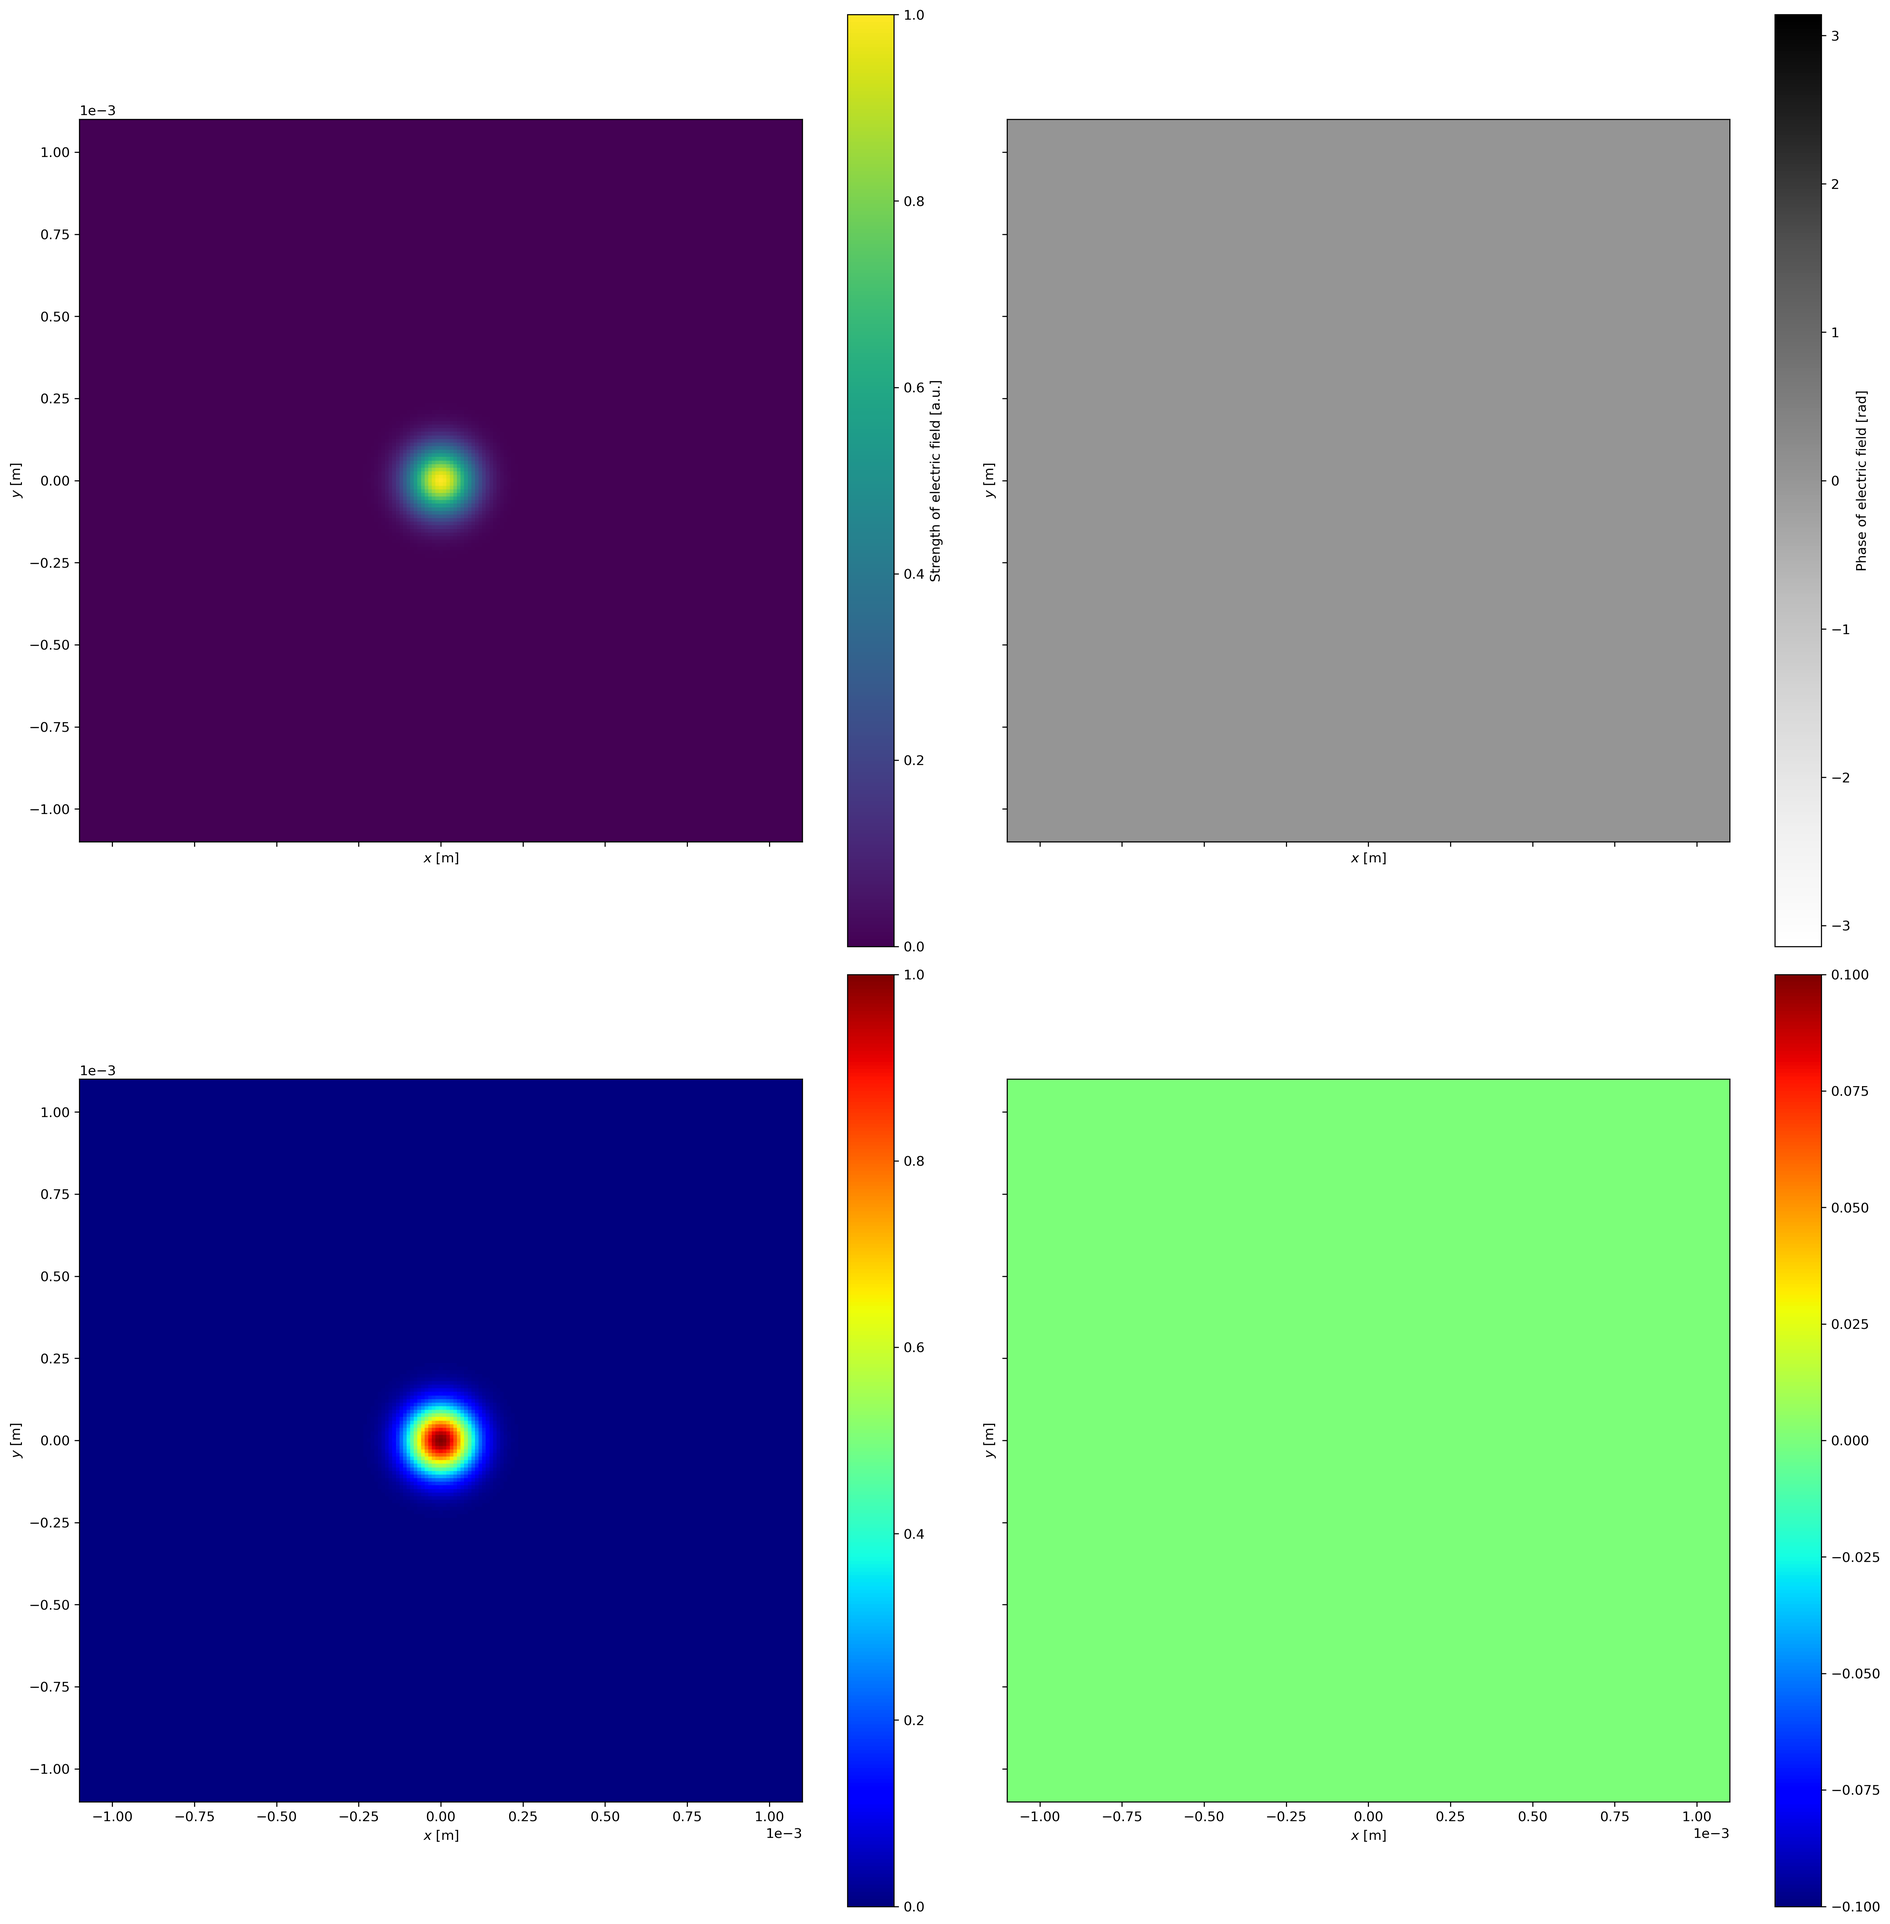
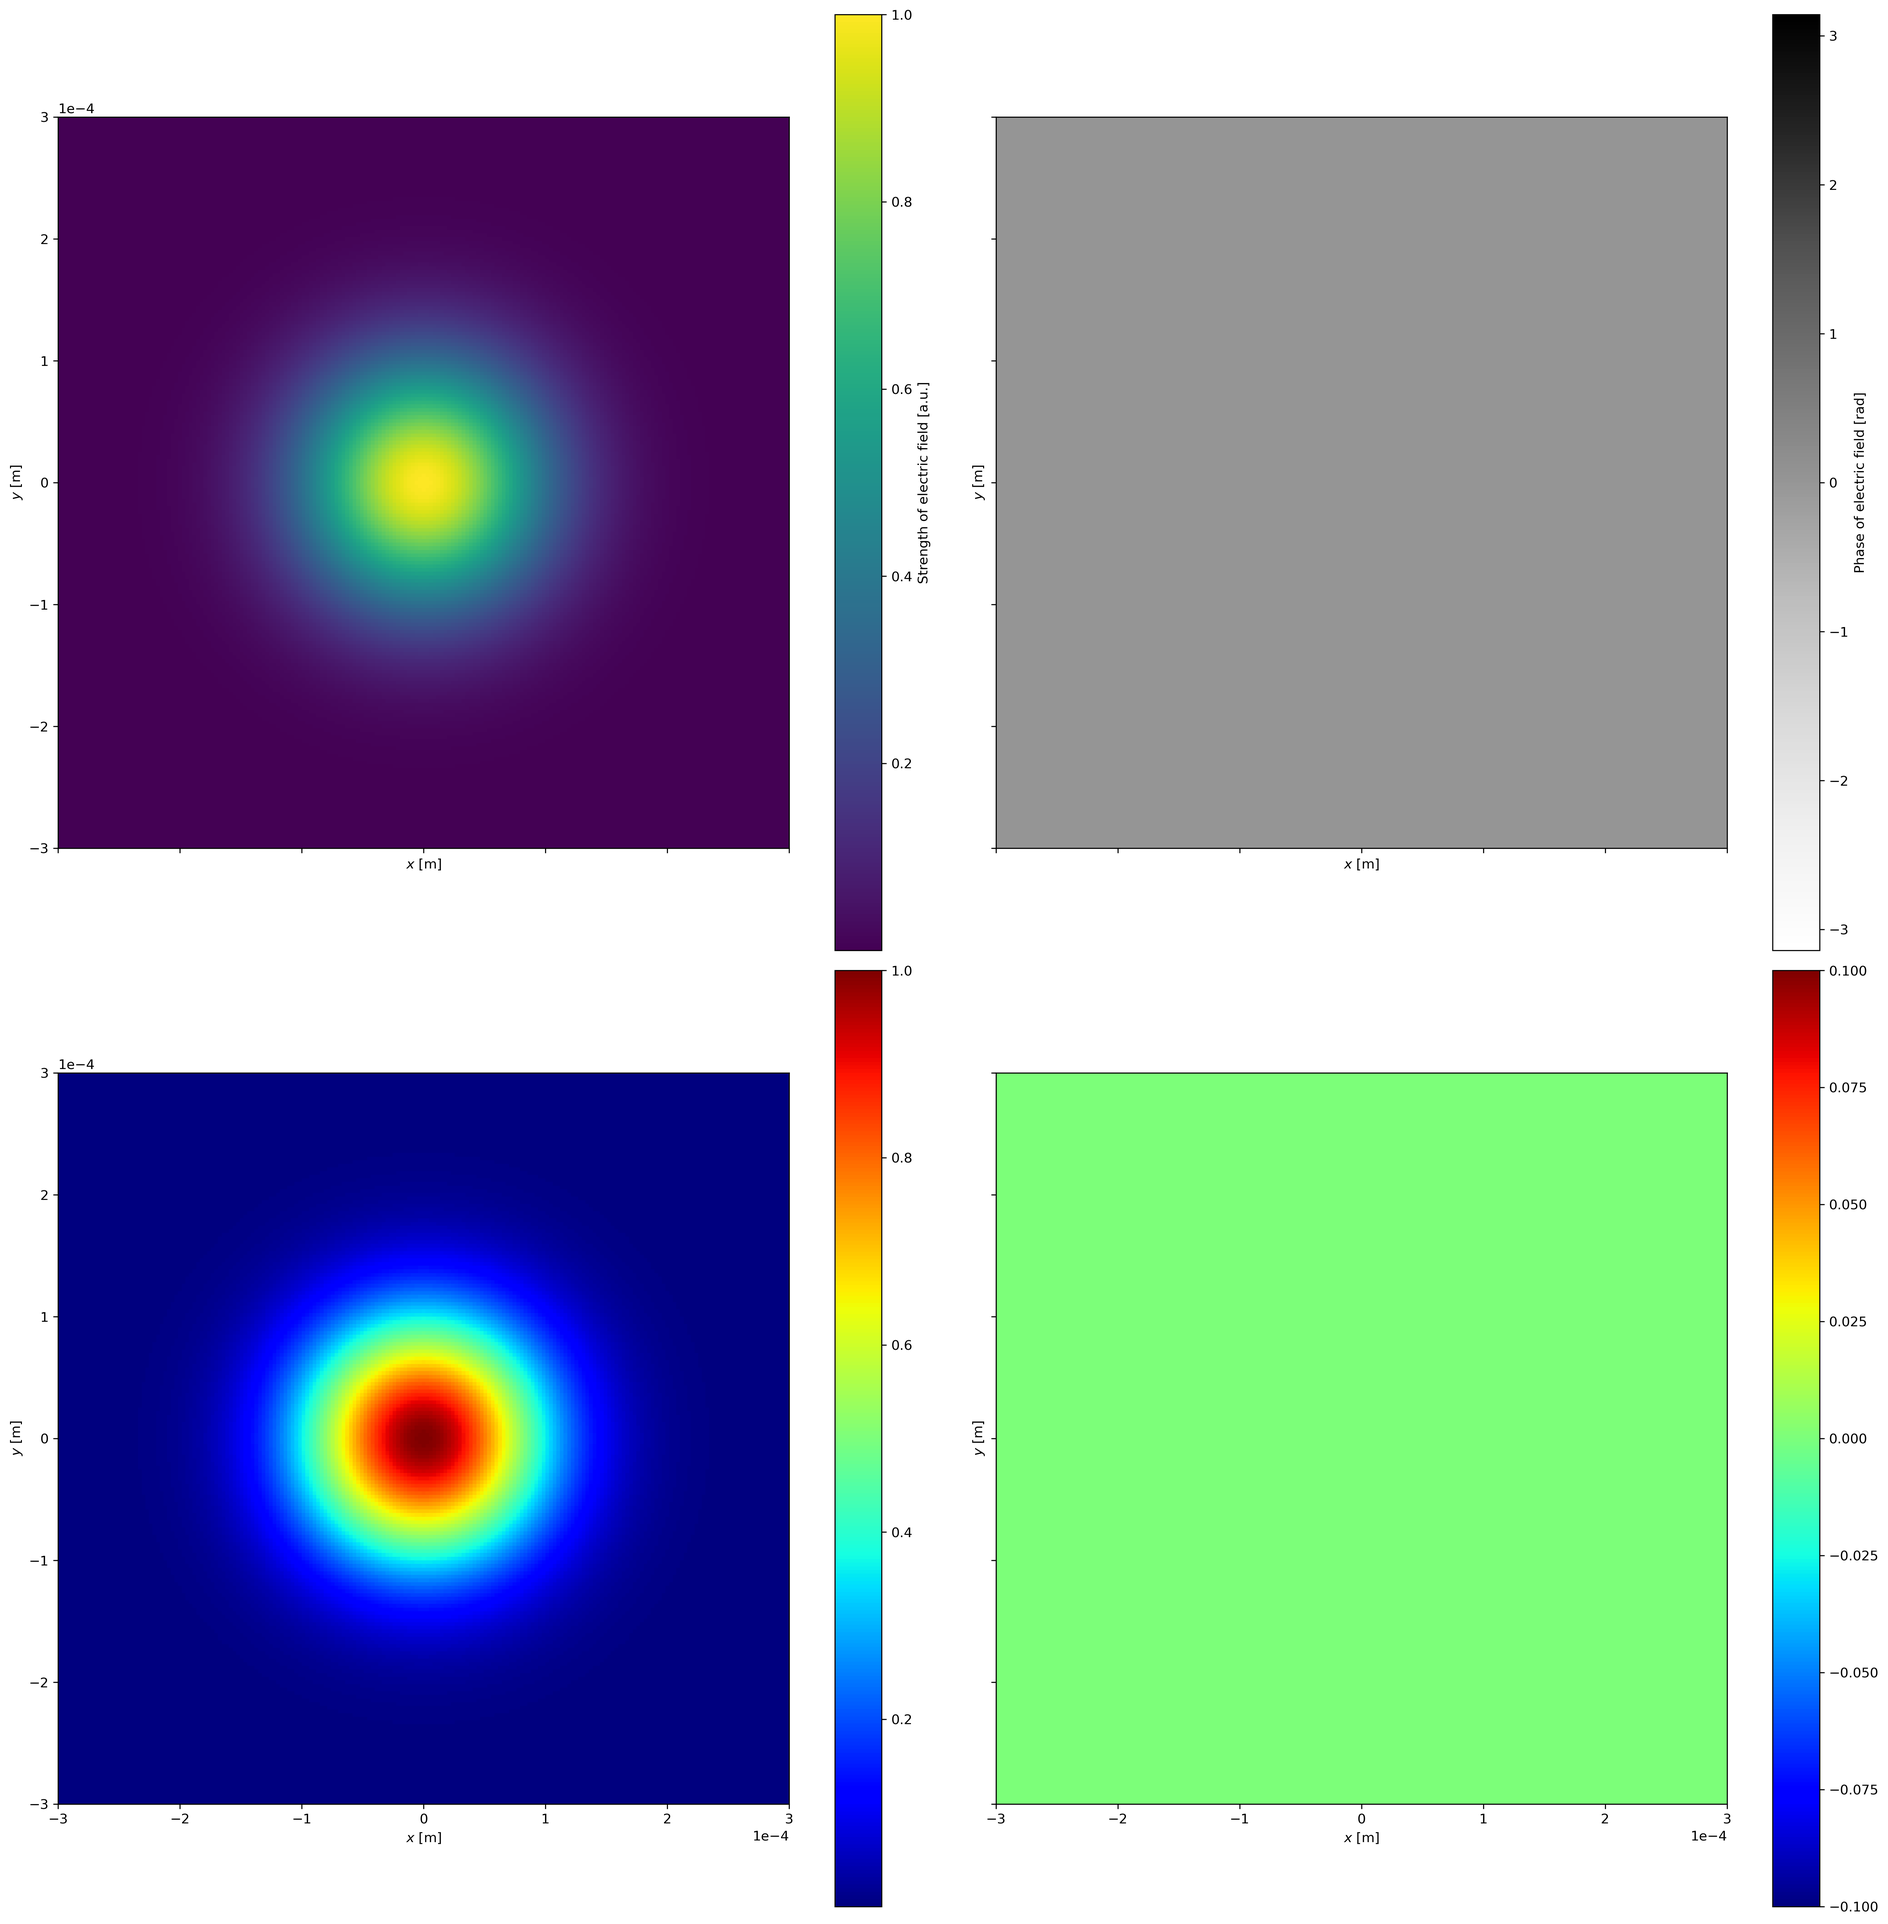
Added some results of LG beams at the waist.

diff --git a/laguerre-gauss_Gouy.py b/laguerre-gauss_Gouy.py
@@ -24,15 +24,15 @@ if __name__ == "__main__":
     wavelength = 640e-9
     wavenumber = 2.0 * np.pi / wavelength
     waist_radius = 100e-6
-    radial_order = 0
-    azimuthal_order = 0
+    radial_order = 2
+    azimuthal_order = 2
     
     rayleigh = sources.laguerre_gauss_paraxial_parameters(wavelength, waist_radius, radial_order, azimuthal_order, 0.0)[1]
     
     print('Rayleigh length of beam:', rayleigh*1e3, 'mm')
     
     # sampling parameters
-    frame = 10.0 * waist_radius
+    frame = 2.0 * waist_radius
     n = 201
     
     window_x = 2.0 * (frame + waist_radius)
